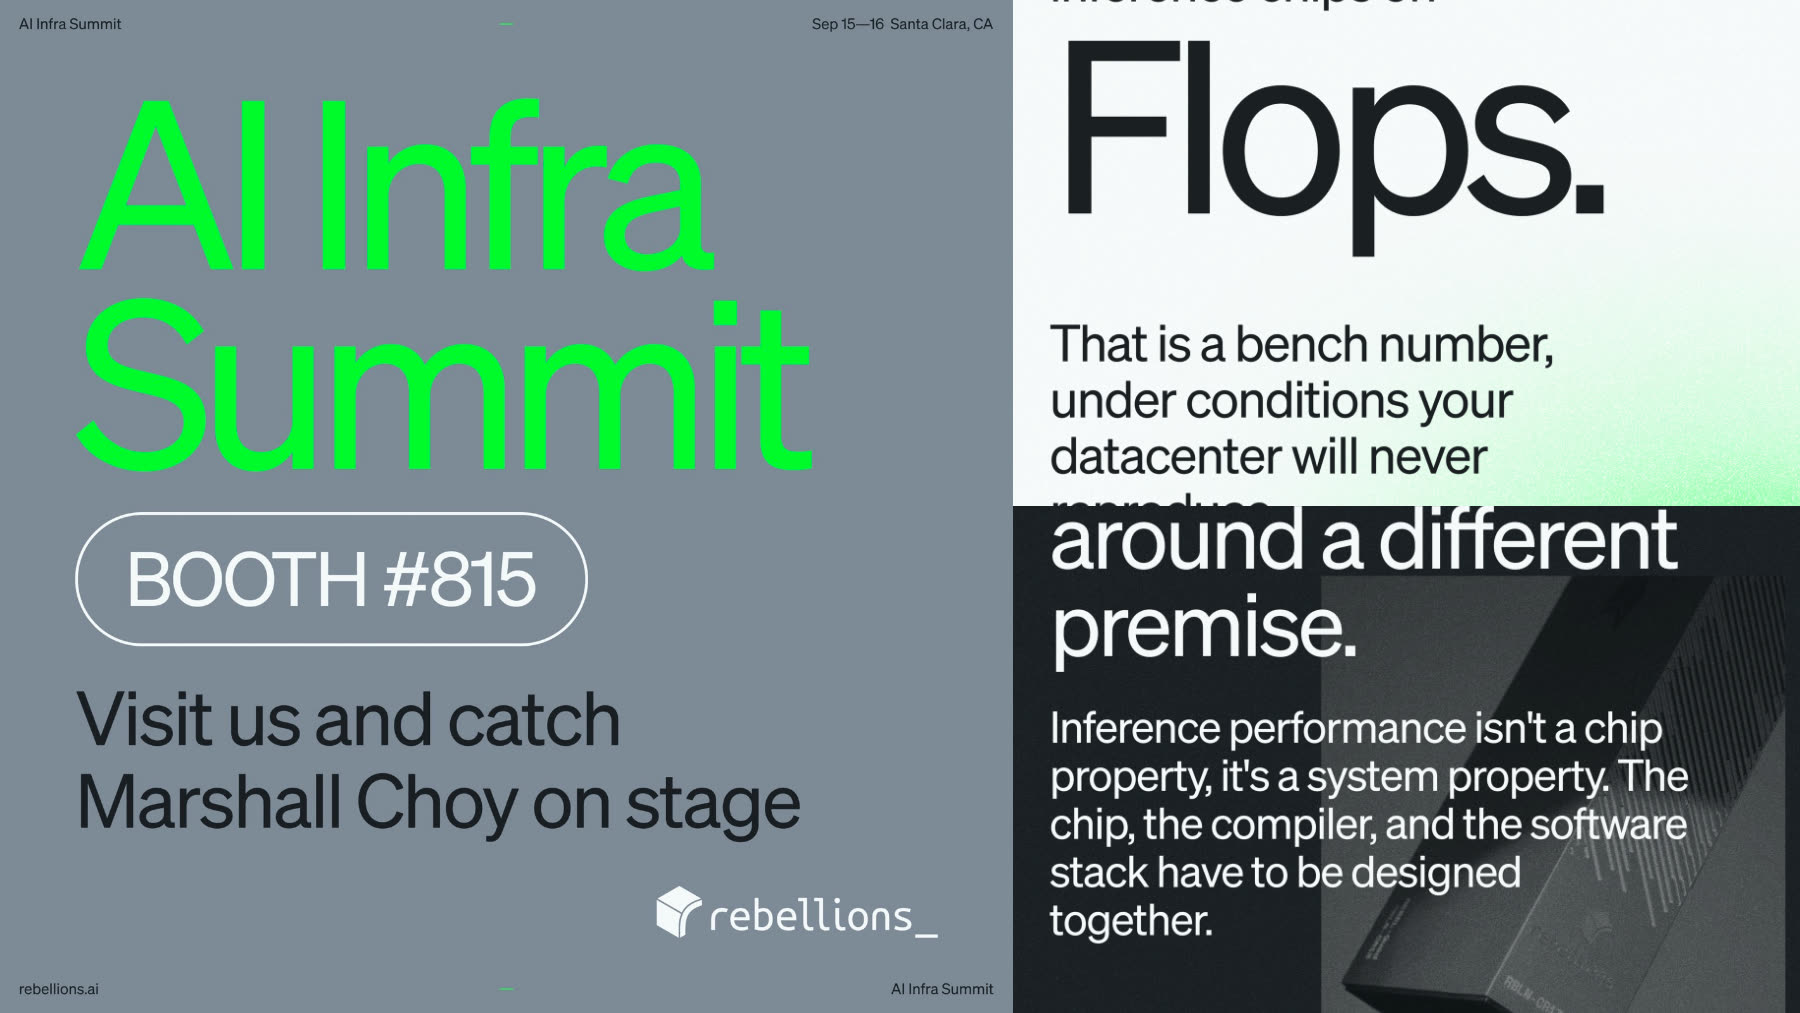
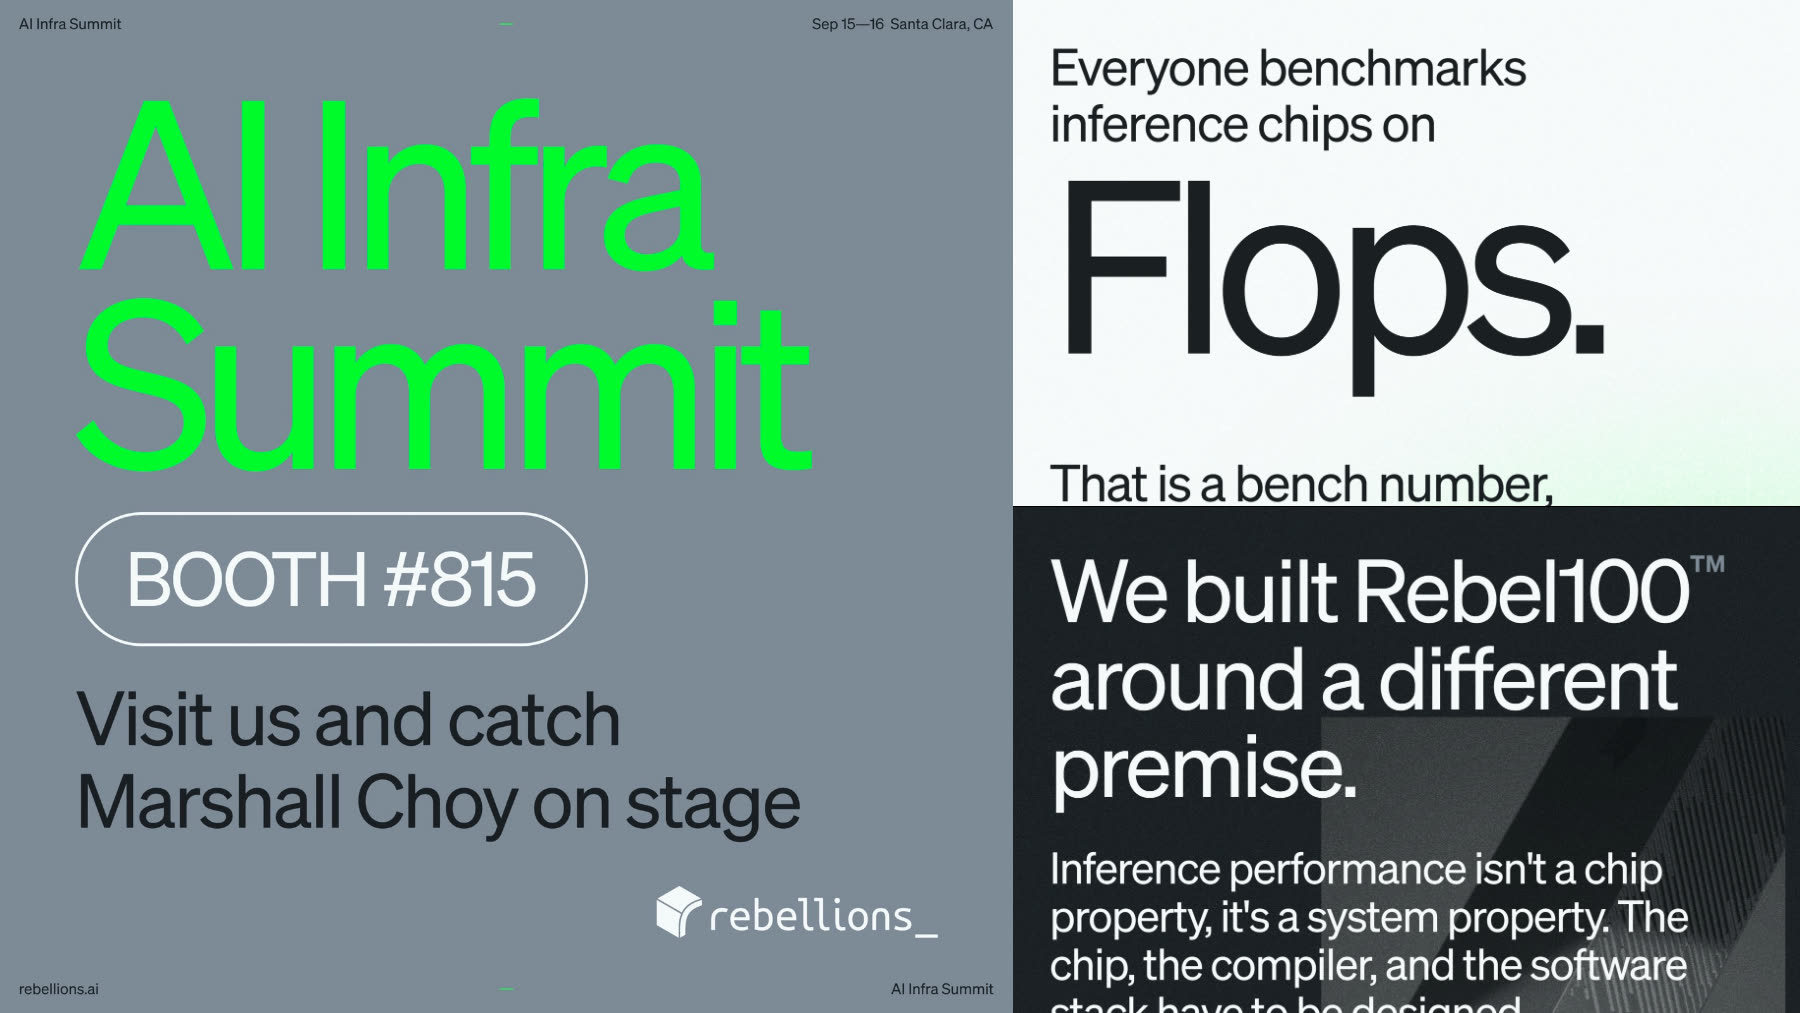
Work runs full width, badges and type to the reference's own numbers
The left rail leaves Work: the header sits at the top and the section runs on three full-width columns, so the feature pair and the six cards get the space the rail was holding. About, Experience and Said keep their rail.

Badges match the reference: 13.5px uppercase, hairline box, 4.5px radius, 4.5 by 6.3px padding, and the date beside them at the same size. Type moves to the exact scale, 14 / 16 / 18 / 23 / 27 / 32 / 50 / 77, with the flat -1px tracking on headings and normal on body, which is what the reference measures at.

The Rebellions composite is rebuilt anchored to the tops of its source cards, since the previous crop cut the headline off two of the three.

Also, from Jamie's train values: tops now range 5 to 61 percent. Two widths trimmed so the taller cards clear the stage floor, and the Imperva card comes off speed 5, which had it crossing in 4 frames out of 49.

Changed region(s): [[0.56, 0.0306, 1.0, 1.0]]

diff --git a/b.css b/b.css
@@ -33,24 +33,26 @@ p, h1, h2, ol, figure, blockquote { margin: 0; }
 ol { list-style: none; padding: 0; }
 img { display: block; }
 
-.caption { font-size: 14px; line-height: 1.43; }
-.body { font-size: 18px; line-height: 1.35; letter-spacing: -0.01em; }
-.heading-sm { font-weight: 500; font-size: 22.5px; line-height: 1.2; letter-spacing: -1px; }
+.caption { font-size: 14px; line-height: 1.43; letter-spacing: normal; }
+.body { font-size: 18px; line-height: 1.35; letter-spacing: normal; }
+.heading-sm { font-weight: 500; font-size: 23px; line-height: 1.2; letter-spacing: -1px; }
 .heading { font-weight: 500; font-size: 27px; line-height: 1; letter-spacing: -1px; }
-.heading-lg { font-weight: 500; font-size: 31.5px; line-height: 1; letter-spacing: -1px; }
-.display { font-weight: 500; font-size: 49.5px; line-height: 0.9; letter-spacing: -1px; }
-.display-xl { font-weight: 500; font-size: 76.5px; line-height: 1; letter-spacing: -2.25px; }
+.heading-lg { font-weight: 500; font-size: 32px; line-height: 1; letter-spacing: -1px; }
+.display { font-weight: 500; font-size: 50px; line-height: 0.9; letter-spacing: -1px; }
+.display-xl { font-weight: 500; font-size: 77px; line-height: 1; letter-spacing: -2.25px; }
 
 .pill {
   display: inline-block;
-  border: 1px solid var(--ghost);
-  border-radius: 0;
-  padding: 5px 6px;
-  font-size: 14px;
+  border: 1px solid currentColor;
+  border-radius: 4.5px;
+  padding: 4.5px 6.3px;
+  font-size: 13.5px;
   line-height: 1;
+  letter-spacing: normal;
+  text-transform: uppercase;
   white-space: nowrap;
 }
-.date { font-size: 14px; }
+.date { font-size: 13.5px; text-transform: uppercase; letter-spacing: normal; }
 .meta { display: flex; flex-wrap: wrap; align-items: center; gap: 9px; }
 .ghost {
   display: block;
@@ -149,12 +151,12 @@ img { display: block; }
 .card__pills--top { top: 14px; bottom: auto; }
 /* Train cards. Widths fixed, heights follow the source aspect, none overlap, all sit below the hed */
 .card--2  { left: 0;      top: 12%; width: 480px; aspect-ratio: 1; --speed: 1.14; --drift: 14px; z-index: 3; }                /* Rebellions cover */
-.card--0  { left: 827px;  top: 34%; width: 600px; aspect-ratio: 1800 / 1131; --speed: 1.14; --drift: -26px; z-index: 3; }      /* Harvard Bass */
+.card--0  { left: 827px;  top: 61%; width: 520px; aspect-ratio: 1800 / 1131; --speed: 1.14; --drift: -26px; z-index: 3; }      /* Harvard Bass */
 .card--1  { left: 1773px;  top: 10%; width: 720px; aspect-ratio: 16 / 9; --speed: 1.14; --drift: -18px; z-index: 3; }           /* Nudge */
-.card--3  { left: 0; top: 22%; width: 540px; aspect-ratio: 16 / 10; --speed: 1.0; --drift: -20px; z-index: 2; }          /* Prevoty */
-.card--4  { left: 1140px; top: 52%; width: 680px; aspect-ratio: 16 / 9; --speed: 1.0; --drift: 18px; z-index: 2; }           /* Imperva wheel */
-.card--5  { left: 2840px; top: 46%; width: 580px; aspect-ratio: 3208 / 2008; --speed: 1.14; --drift: -16px; z-index: 3; }      /* Leadership University */
-.card--6  { left: 0; top: 28%; width: 600px; aspect-ratio: 3212 / 2012; --speed: 0.86; --drift: 24px; z-index: 1; }      /* C-QNC */
+.card--3  { left: 0; top: 55%; width: 540px; aspect-ratio: 16 / 10; --speed: 1.0; --drift: -20px; z-index: 2; }          /* Prevoty */
+.card--4  { left: 1140px; top: 39%; width: 680px; aspect-ratio: 16 / 9; --speed: 1.28; --drift: 18px; z-index: 2; }           /* Imperva wheel */
+.card--5  { left: 2340px; top: 59%; width: 550px; aspect-ratio: 3208 / 2008; --speed: 1.14; --drift: -16px; z-index: 3; }      /* Leadership University */
+.card--6  { left: 0; top: 5%; width: 600px; aspect-ratio: 3212 / 2012; --speed: 0.86; --drift: 24px; z-index: 1; }      /* C-QNC */
 .card--7  { left: 2080px; top: 16%; width: 500px; aspect-ratio: 670 / 372; --speed: 0.86; --drift: -22px; z-index: 1; }        /* BBC */
 .card--9  { left: 2420px; top: 40%; width: 580px; aspect-ratio: 3098 / 2180; --speed: 1.0; --drift: -18px; z-index: 2; }      /* Shader lab */
 
@@ -171,7 +173,7 @@ img { display: block; }
 /* Featured two-up, built on the reference's editorial block: image, a tag row,
    a large title, and a second column that sits lower and lags as it scrolls in. */
 .cell--feature {
-  grid-column: 2 / -1;
+  grid-column: 1 / -1;
   display: grid;
   grid-template-columns: 1fr 1fr;
   gap: 0;
@@ -192,7 +194,7 @@ img { display: block; }
 .feature__meta { display: flex; align-items: center; gap: 9px; padding: 18px var(--gutter) 0; }
 .feature__title {
   font-weight: 500;
-  font-size: 45px;
+  font-size: 50px;
   line-height: 0.95;
   letter-spacing: -1px;
   padding: 16px var(--gutter) 0;
@@ -216,6 +218,14 @@ img { display: block; }
   position: relative;
   z-index: 5;
 }
+
+.sheet--full { grid-template-columns: repeat(3, minmax(0, 1fr)); }
+.cell--head {
+  grid-column: 1 / -1;
+  border-right: 0;
+  padding: 45px var(--gutter) 40px;
+}
+.cell--head .body { margin-top: 14px; max-width: 30em; color: var(--ink-soft); }
 .cell {
   min-width: 0;
   border-right: 1px solid var(--line);
@@ -323,7 +333,8 @@ img { display: block; }
   .display { font-size: 32px; line-height: 0.95; }
   .display-xl { font-size: 38px; }
   .bar--corner { position: relative; }
-  .sheet { grid-template-columns: 1fr 1fr; }
+  .sheet, .sheet--full { grid-template-columns: 1fr 1fr; }
+  .cell--head { grid-column: span 2; }
   .cell:nth-child(4n) { border-right: 1px solid var(--line); }
   .cell:nth-child(2n) { border-right: 0; }
   .cell--label { grid-column: span 2; border-right: 0; min-height: 0; }
@@ -337,7 +348,8 @@ img { display: block; }
   .role__date { text-align: left; }
 }
 @media (max-width: 560px) {
-  .sheet { grid-template-columns: 1fr; }
+  .sheet, .sheet--full { grid-template-columns: 1fr; }
+  .cell--head { grid-column: span 1; }
   .cell, .cell:nth-child(4n) { border-right: 0; border-bottom: 1px solid var(--line); }
   .cell--label, .cell--wide, .cell--span3, .cell--span2, .cell--card-wide, .cell--card-full, .cell--feature { grid-column: span 1; }
   .bar__nav { gap: 16px; font-size: 16px; }

diff --git a/index.html b/index.html
@@ -43,9 +43,9 @@
     </section>
 
     <!-- Four column hairline sheet -->
-    <section id="work" class="sheet">
+    <section id="work" class="sheet sheet--full">
 
-      <div class="cell cell--label">
+      <div class="cell cell--head">
         <h2 class="display-xl">Work</h2>
         <p class="body">Eight projects, 2010 to 2026.</p>
       </div>
@@ -63,7 +63,6 @@
           <span class="body">Four years across brand, product and web, from a prototype to a shipped design system.</span>
         </a>
       </div>
-      <div class="cell cell--blank"></div>
       <a class="cell cell--card" href="projects/music.html">
         <img src="assets/music/hb-gradient.jpg" alt="" />
         <span class="meta-line">Identity, Posters, 2023 to 2025</span>
@@ -82,7 +81,6 @@
         <span class="heading-lg">Prevoty</span>
         <span class="body">Identity and product for a runtime security startup, through its acquisition.</span>
       </a>
-      <div class="cell cell--blank"></div>
       <a class="cell cell--card" href="projects/leadership-university.html">
         <img src="assets/leadu/app-dubrovnik.jpg" alt="" />
         <span class="meta-line">Brand, Web, 2019</span>
